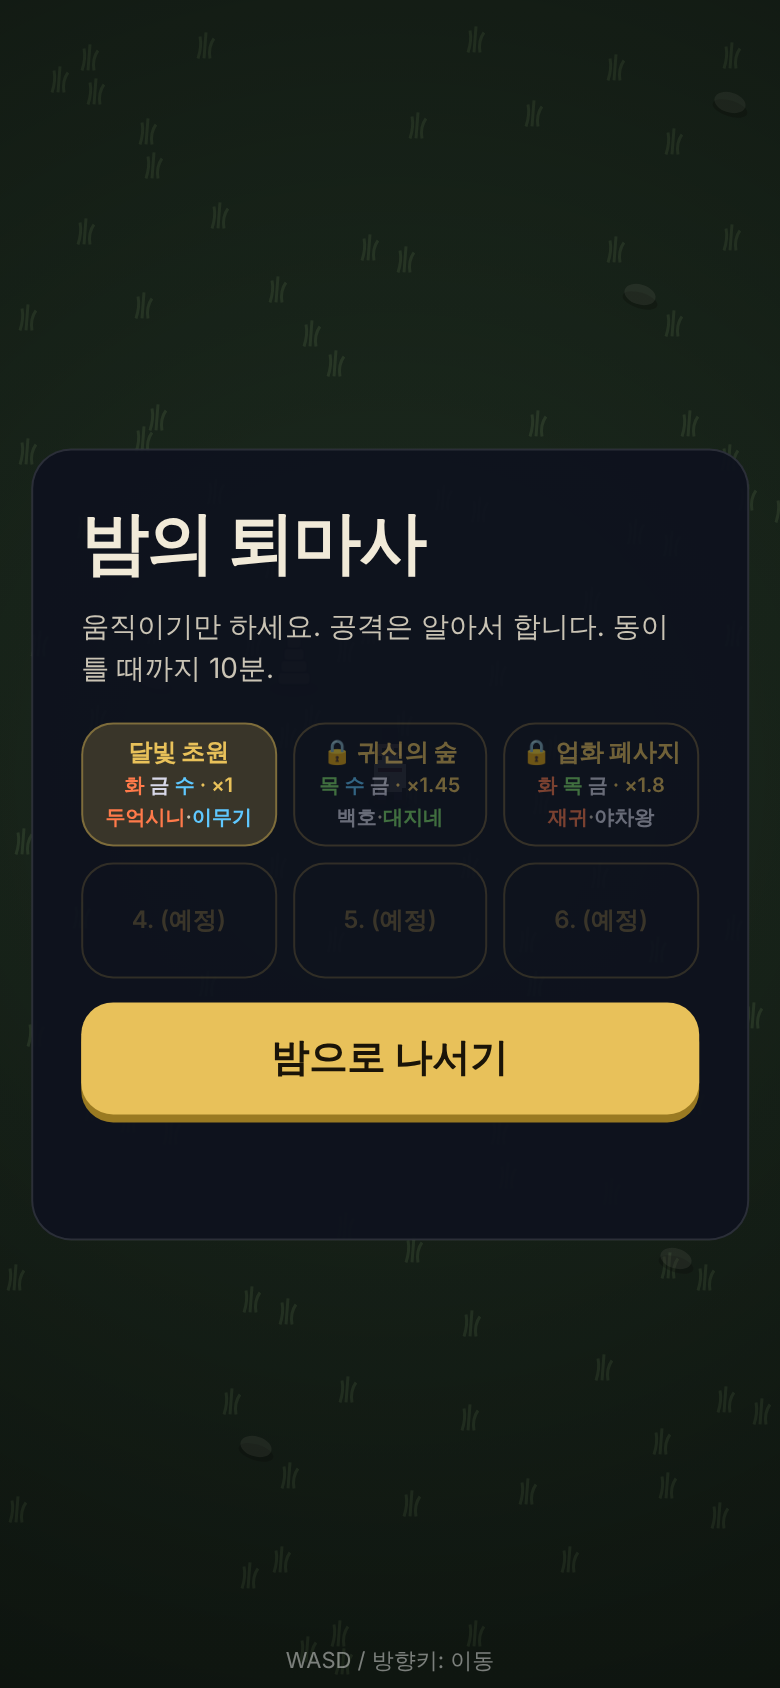
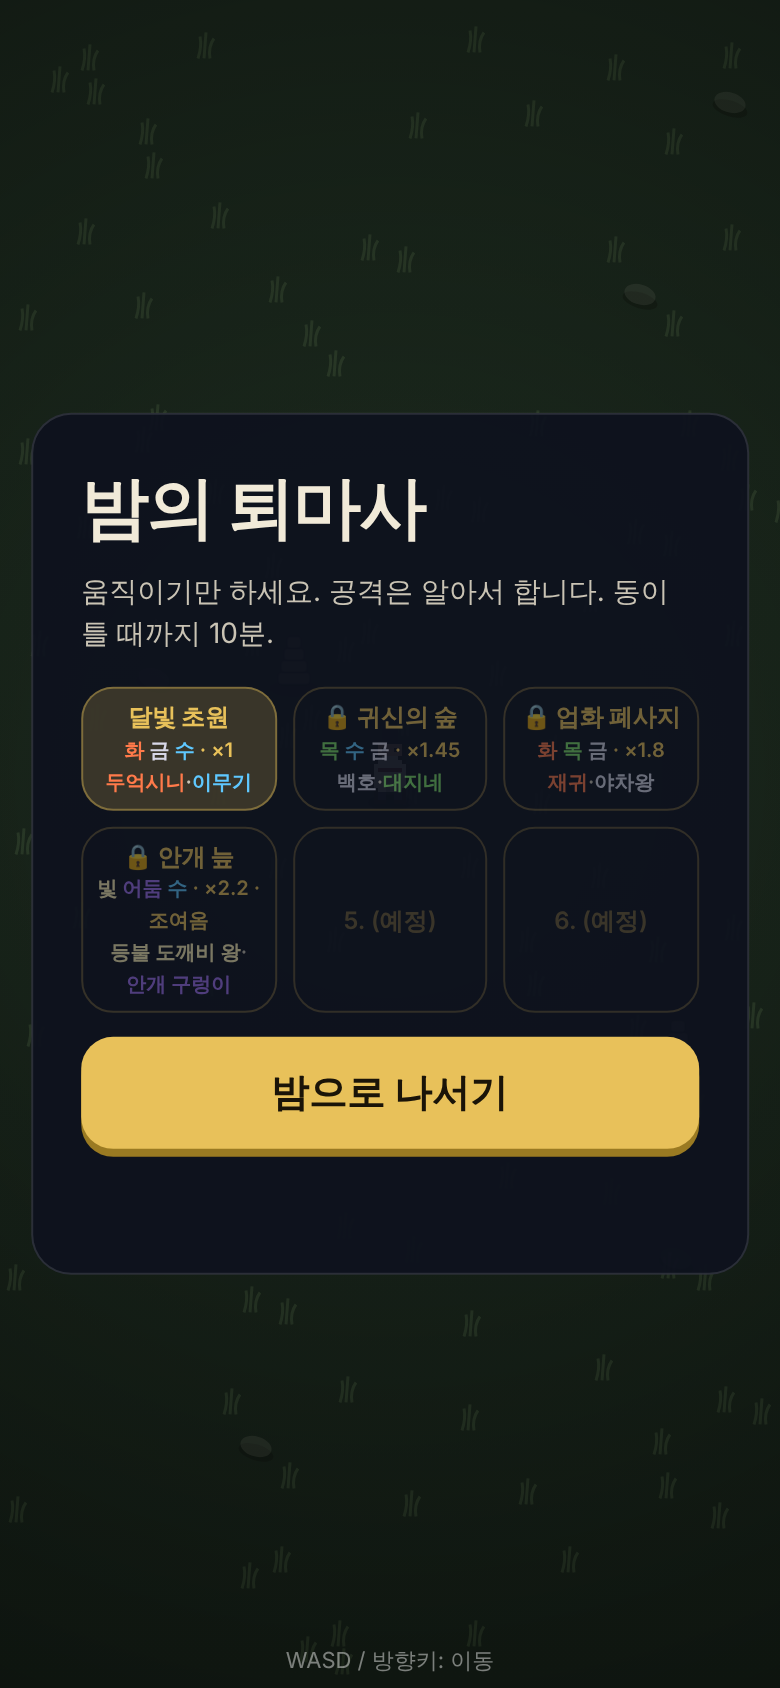
밤의 퇴마사 M4③: 스테이지 4 안개 늪(반경 축소·안개 피해·시야 디버프)·요괴 7·클리어 18회분·v8
- arenaR() 600→220/9분, 보스 중 정지, evenodd 구멍(6.283 anticlockwise 버그 수정)
- run-sim-m2 안개 늪 게이트 추가 (8/8), design §15

Claude-Session: https://claude.ai/code/session_01RmJvEQYZMU41pMZMsu4AKq

diff --git a/docs/04-night-exorcist/design.md b/docs/04-night-exorcist/design.md
@@ -136,3 +136,14 @@ challenge(n) = 1 + 0.975·(1 − 0.86^n)     (밤 단계)
 - ③ 뽑기권: 클리어 = 조각 30/60/120 (3/6/12회분), 첫 클리어 2배 → 3스테이지 첫 클리어 24회분. 정예 1·보스 3 그대로
 - 테스트 m1 14 · v3 11 · m2 16 · m3 9 · m3b 10 = 60 PASS, perf p95 2.6ms
 - 다음: 호원 실플레이 → 실측 분포(`balance-query.sql`) → 스테이지 4~6(새 속성 여부 결정) → 공개
+
+## 15. M4 — 두 고리·범용·안개 늪 (10/03 밤, v8 · 비공개)
+호원 결정: 속성 확장은 **두 고리** · 범용 슬롯 확대 · 스테이지 4 = 시간 따라 좁아지는 구조.
+- **슬롯** 무기 4→5 / 패시브 3→5. 패시브 8종(짚신·산삼·호랑이 담배·자석 호리병 + 도롱이 피해 −8%/단 · 소금 주머니 접촉 밀침+경직 · 녹두 경험치 +10%/단 · 부적 가방 투척 투사체 +1). **중립 무기 2**(종이 호랑이 소환수 · 쑥뜸 연기 오라 처치 시 +2) — 상성 ×1 고정, 진화 제외
+- **두 고리**: A 수→화→금→목→수 / B 빛→어둠→땅→번개→빛, 고리 사이 ×1. 효과 빛 = 처치 시 +1, 어둠 = 피해 3% 흡혈, 땅 = 넉백 대신 경직 .4s(무기는 아직), 번개 = 연쇄(미구현)
+- **빛·어둠 무기 6**: 달빛 화살·햇살 검·등불 / 그림자 비수·먹물 붓·칠흑 장막. `unlock:4` → 안개 늪 클리어 후 뽑기 풀(14→20)
+- **진화 48** = 37 + 빛/어둠 11 (같은 타입 쌍은 같은 고리 안에서만, 사원소는 고리별 `e:<type>:all2`). 땅·번개가 들어오면 문법이 자동으로 늘어남(이름은 EVO_NAME 에 추가, 없으면 부품 이름 합성)
+- **안개 늪**(×2.2, 빛·어둠·수): 반경 600 → 220 (9분), 보스 생존 중 정지. 밖이면 5/s 피해 + 시야 디버프(어두운 비네팅) + HUD "안개 속 — 안으로!". 요괴 반딧불 떼·도깨비 등불·그림자 승냥이·늪귀신·이끼 거북 / 등불 도깨비 왕(빛 heavy)·안개 구렁이(어둠). 클리어 뽑기 18회분(첫 36)
+- 시뮬: 풀수련·숙련 8·맞춤덱·2단 진화 가정으로 NORMAL 클리어, 중간덱 9:23 사망 — ×2.0 이면 중간덱도 깨져서 2.2 유지
+- 버그 메모: `ctx.arc(…, 0, 6.283, true)` 는 반시계로 0.0002rad 만 그린다 — 구멍 뚫기(evenodd)엔 `Math.PI*2` 시계방향
+- 남은 것: 땅·번개 무기 6 + 스테이지 5·6(요괴 14) → 그 뒤 실측·공개
